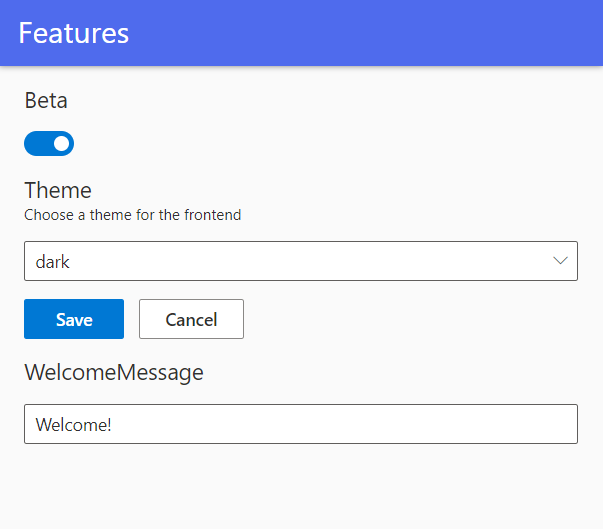
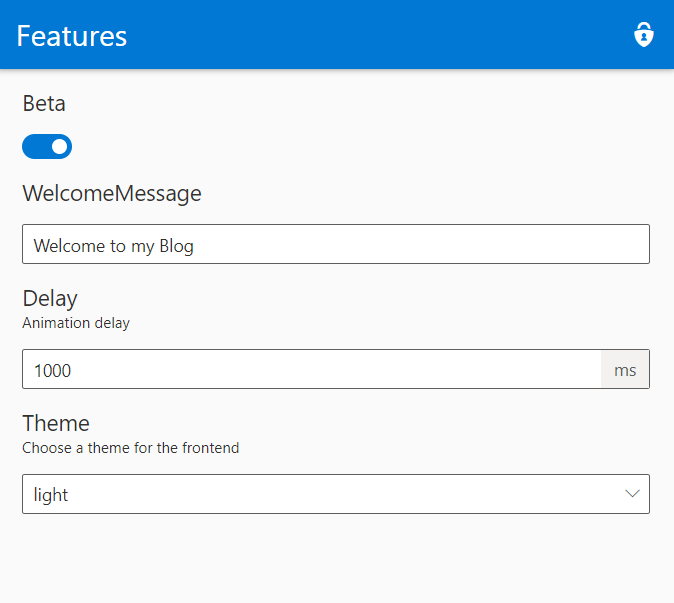
docs: update images of features UI

Changed region(s): [[0.0, 0.0, 1.0, 0.8469], [0.3881, 0.5747, 0.4179, 0.6049]]

diff --git a/readme.md b/readme.md
@@ -141,7 +141,9 @@ public void Configure(IApplicationBuilder app, IWebHostEnvironment env)
 
 You will then be able to display the UI at the following url: `/features-ui`.
 
-![Features UI](./Images/features-ui.png)
+![Features UI - Home](./Images/features-ui.png)
+
+![Features UI - Auth](./Images/features-ui-auth.png)
 
 ### Feature consumption
 
